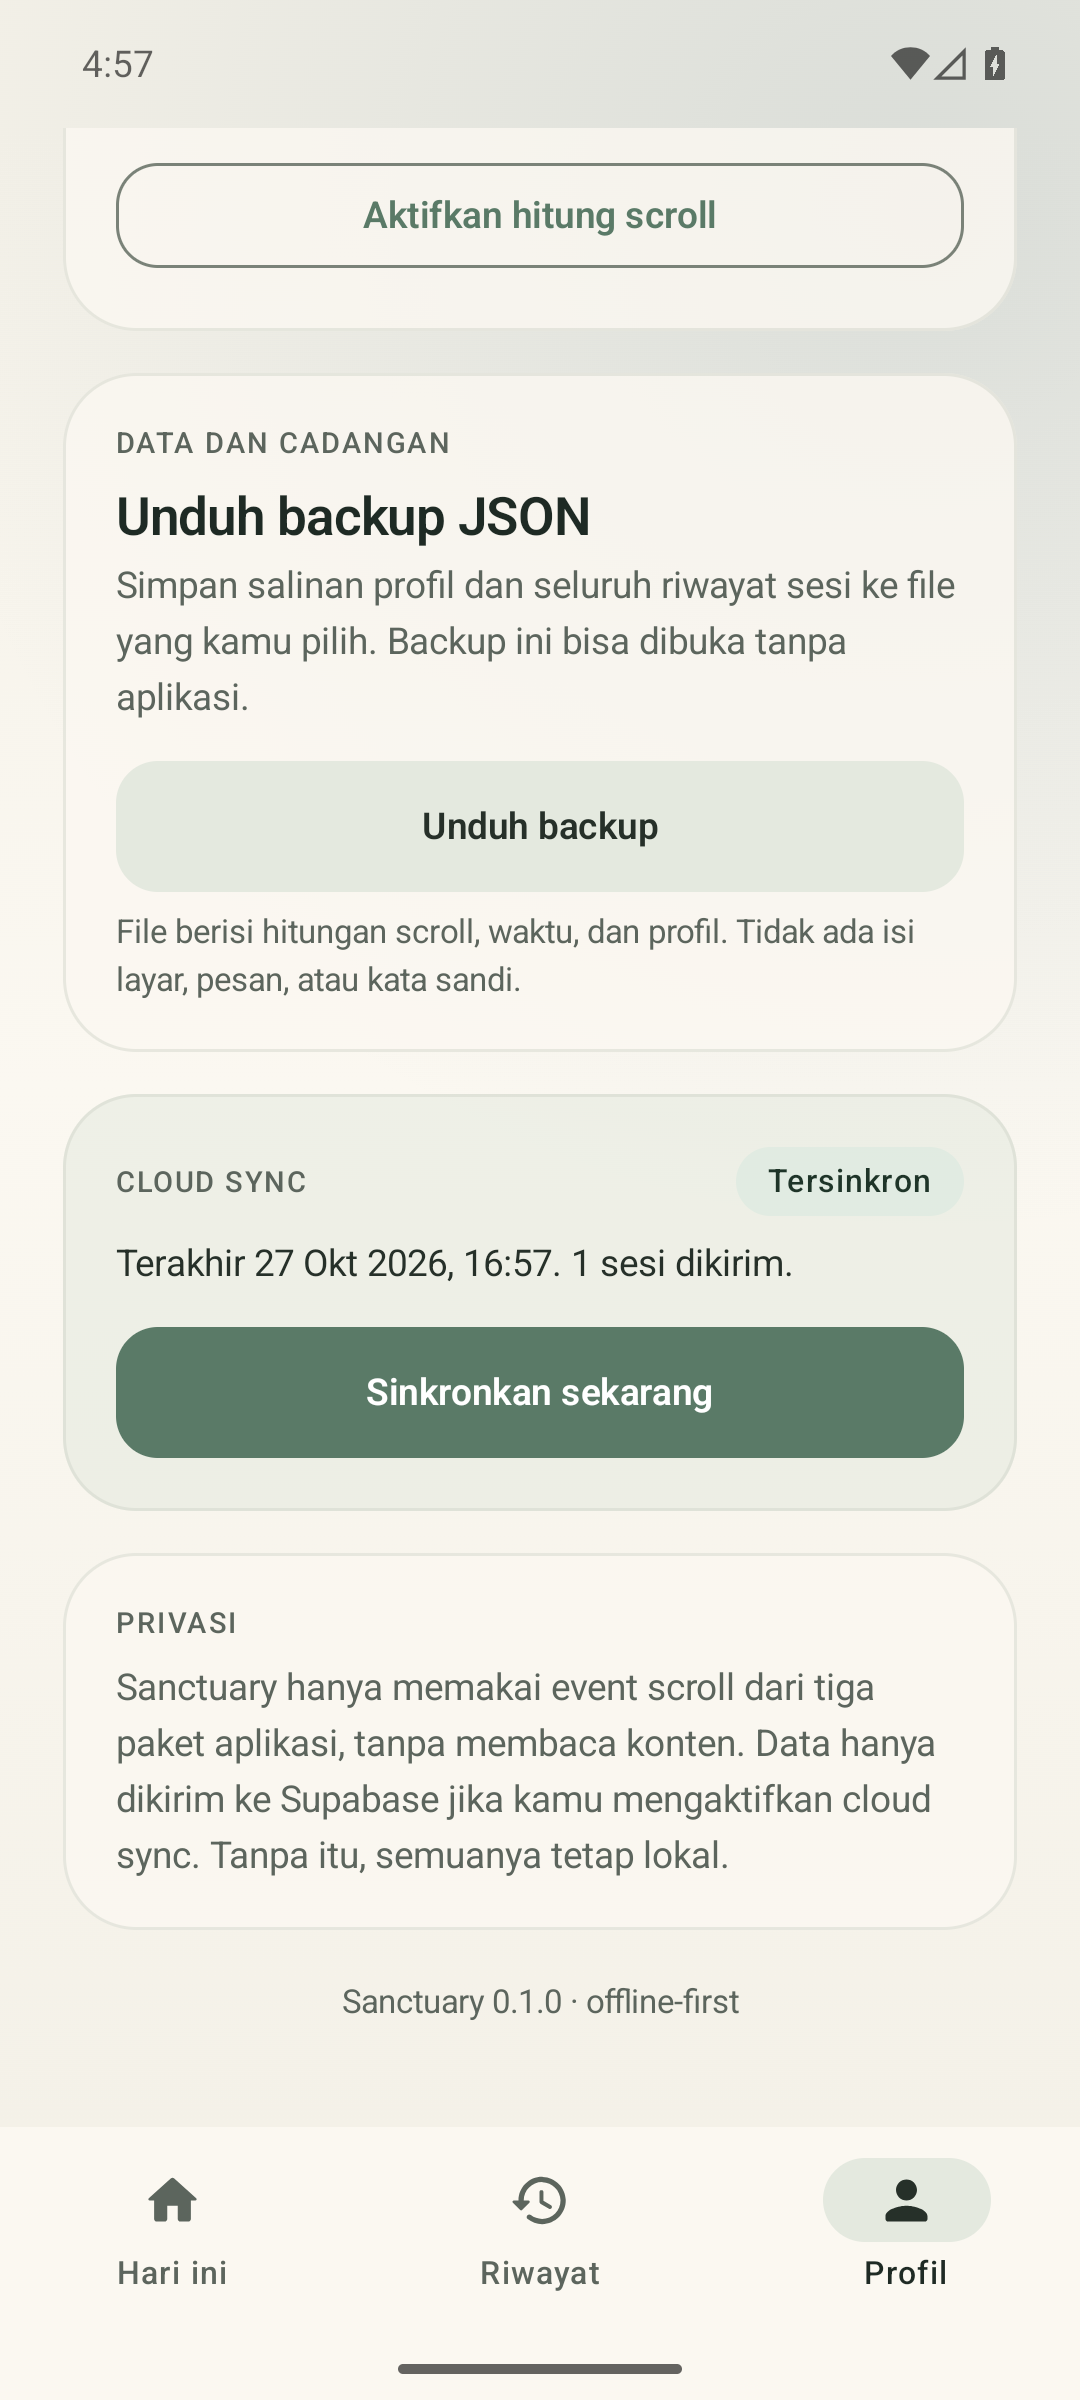
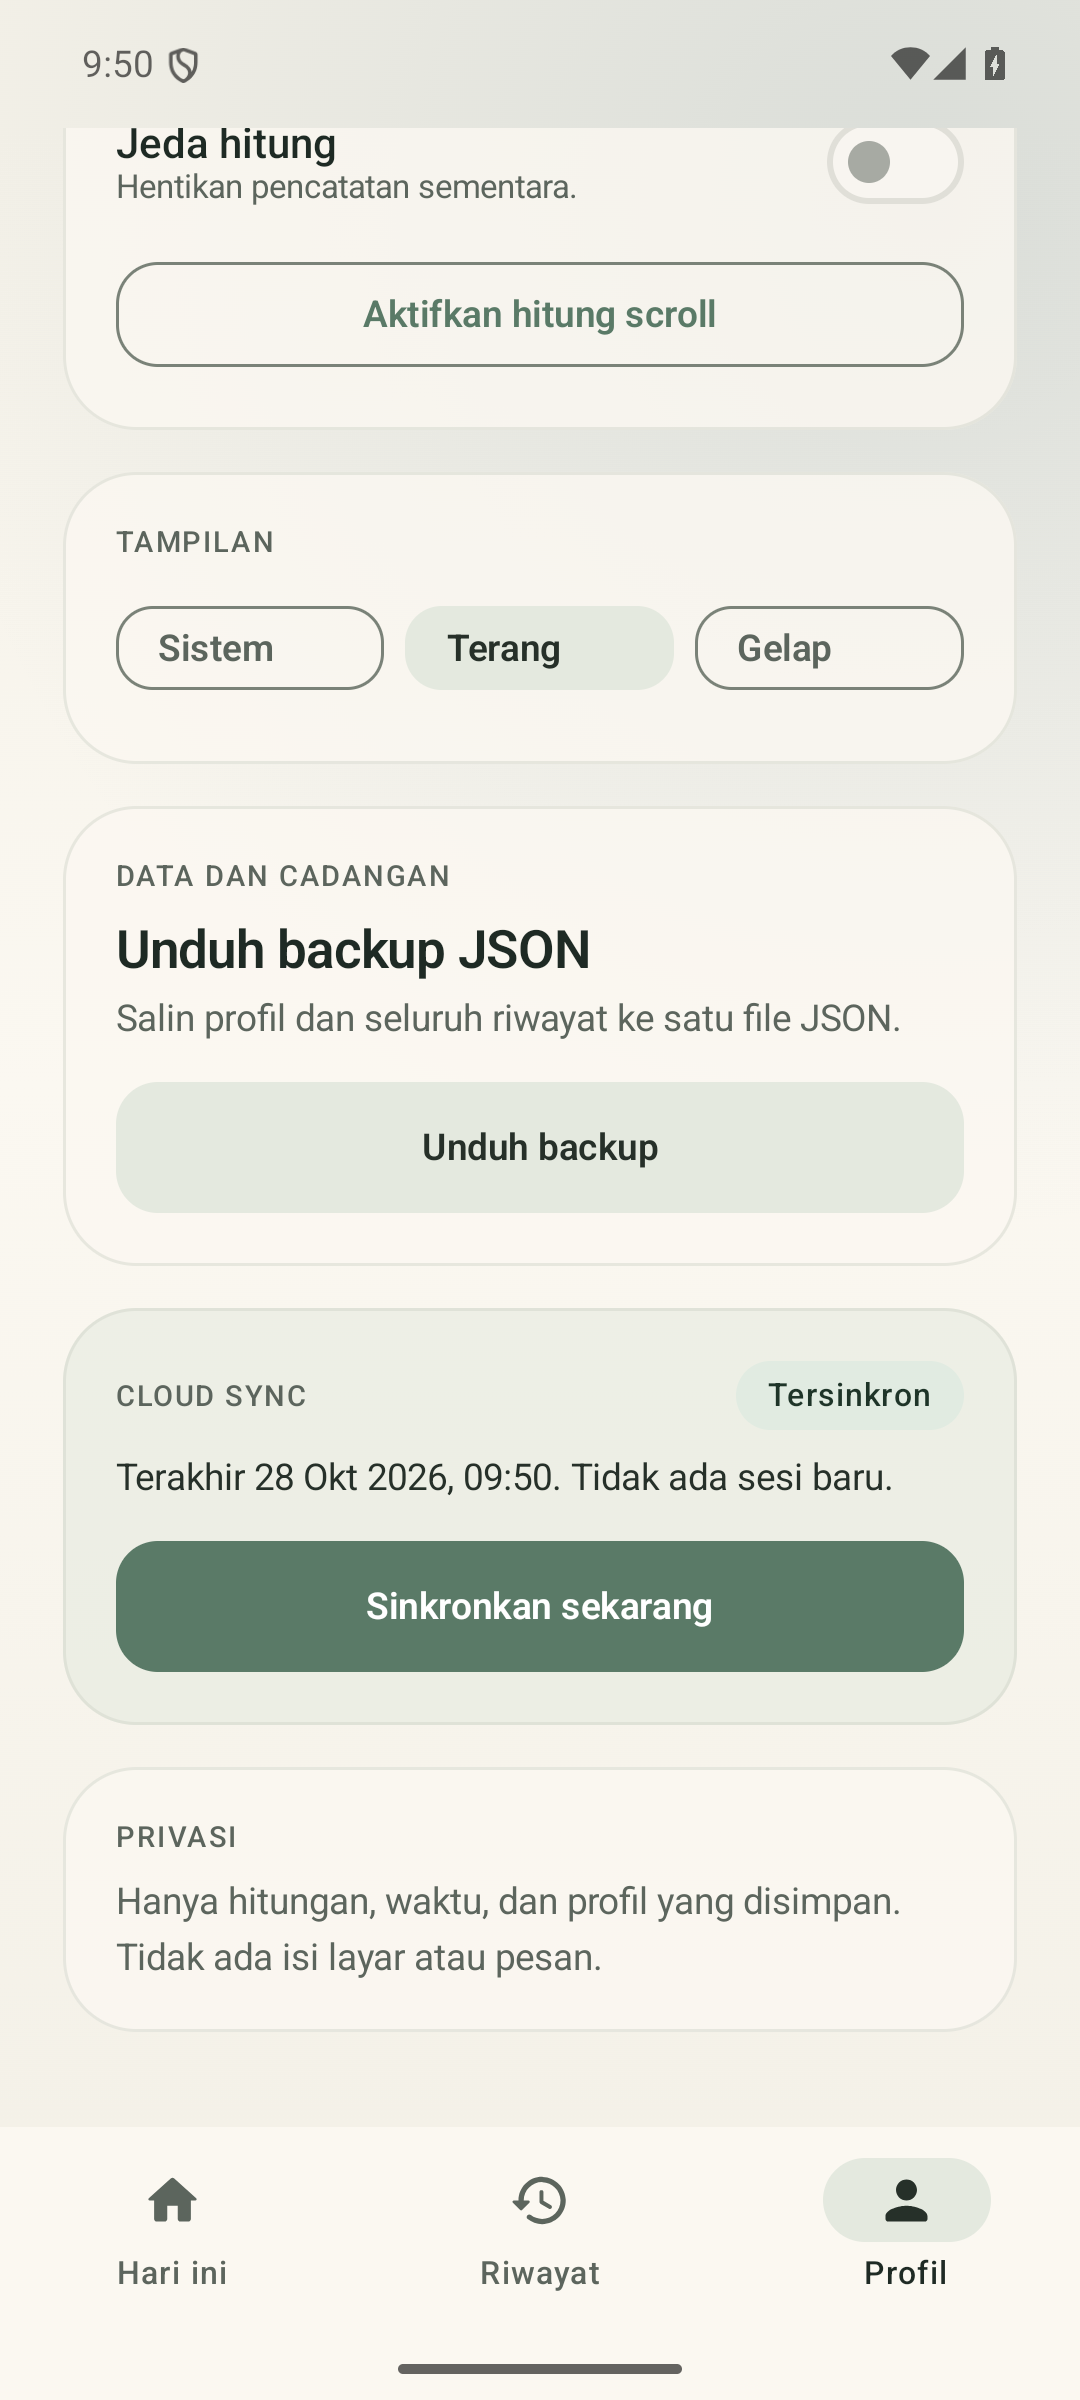
docs: translate README to English and refresh UI screenshots
Keep the same content while translating the project README, and update the cloud and platform screenshots after the copy simplification.

diff --git a/README.md b/README.md
@@ -1,61 +1,61 @@
 # Sanctuary
 
-Aplikasi Android native untuk melihat berapa banyak gestur scroll yang kamu
-lakukan di TikTok, Instagram, dan YouTube. Offline-first, tanpa email/Google,
-dengan akun anonim opsional untuk sinkronisasi dan backup JSON mandiri.
+A native Android app for seeing how many scroll gestures you make in TikTok,
+Instagram, and YouTube. Offline-first, without email or Google, with an optional
+anonymous account for sync and standalone JSON backup.
 
-> Status: **MVP 0.1.0 + cloud sync**. Build debug/release dan seluruh unit test
-> lulus. Verifikasi perangkat nyata untuk akurasi hitung TikTok/Instagram/YouTube
-> masih diperlukan.
+> Status: **MVP 0.1.0 + cloud sync**. Debug/release builds and all unit tests
+> pass. Real-device verification of TikTok/Instagram/YouTube counting accuracy
+> is still required.
 
 | Onboarding | Dashboard |
 |---|---|
-| ![Onboarding Sanctuary](docs/screenshots/onboarding.png) | ![Dashboard Sanctuary](docs/screenshots/dashboard.png) |
+| ![Sanctuary onboarding](docs/screenshots/onboarding.png) | ![Sanctuary dashboard](docs/screenshots/dashboard.png) |
 
-## Kenapa Android dulu
+## Why Android first
 
-Android memberi aplikasi akses ke event `TYPE_VIEW_SCROLLED` lewat
-AccessibilityService. iOS tidak menyediakan cara resmi untuk menghitung scroll di
-dalam aplikasi pihak ketiga; Screen Time hanya memberi durasi/pemakaian kasar.
-Karena itu Sanctuary dibangun sebagai Android native, bukan janji cross-platform
-yang setengah bekerja.
+Android gives apps access to `TYPE_VIEW_SCROLLED` events through
+AccessibilityService. iOS does not provide an official way to count scrolls
+inside third-party apps; Screen Time only gives coarse duration/usage. That is
+why Sanctuary is built as native Android, not a cross-platform promise that only
+half works.
 
-## Fitur
+## Features
 
-| Fitur | Status |
+| Feature | Status |
 |---|---|
-| Hitung scroll TikTok, Instagram, YouTube | Ada, lewat AccessibilityService |
-| Hitung perpindahan YouTube Shorts | Ada, lewat transisi judul di node YouTube |
-| Logo resmi platform | Ada, aset merek masing-masing |
-| Dashboard harian + target | Ada |
-| Riwayat 7/30 hari + detail sesi | Ada |
-| Profil, niat harian, batas scroll | Ada |
-| Jeda hitung | Ada |
-| Offline-first | Ada; network hanya untuk sync opsional |
-| Backup JSON via file picker | Ada |
-| Import JSON | Belum |
-| Supabase anonymous sync | Ada, opt-in; token terenkripsi |
-| Email/Google sign-in | Tidak dipakai |
-| iOS | Tidak didukung |
+| Count TikTok, Instagram, and YouTube scrolls | Available through AccessibilityService |
+| Count YouTube Shorts transitions | Available through title transitions in the YouTube node tree |
+| Official platform logos | Available, using each brand's assets |
+| Daily dashboard + target | Available |
+| 7/30-day history + session detail | Available |
+| Profile, daily intention, scroll limit | Available |
+| Pause counting | Available |
+| Offline-first | Available; network only for optional sync |
+| JSON backup via file picker | Available |
+| JSON import | Not yet |
+| Supabase anonymous sync | Available, opt-in; encrypted token |
+| Email/Google sign-in | Not used |
+| iOS | Not supported |
 
-![Logo platform resmi](docs/screenshots/platforms.png)
+![Official platform logos](docs/screenshots/platforms.png)
 
-## Batasan yang penting
+## Important limitations
 
-Android memberi sinyal per **package**, bukan per tab. Instagram feed dan Reels
-tetap tidak bisa dipisah. YouTube Shorts memakai pager yang tidak mengirim
-`TYPE_VIEW_SCROLLED`; Sanctuary mendeteksi pergantian Shorts dari judul dan nama
-channel yang tampil di permukaan player. Yang dihitung adalah **perpindahan
-Shorts**, bukan video yang ditonton sampai selesai. Feed YouTube biasa tetap
-dihitung lewat scroll event package.
+Android reports signals per **package**, not per tab. Instagram feed and Reels
+still cannot be separated. YouTube Shorts uses a pager that does not emit
+`TYPE_VIEW_SCROLLED`; Sanctuary detects Shorts transitions from the title and
+channel name shown on the player surface. The count represents **Shorts
+transitions**, not videos watched to completion. The regular YouTube feed is
+still counted through package scroll events.
 
-Satu gestur yang selesai dihitung satu. Event fling dari framework digabung
-dengan jeda tenang 350 ms per aplikasi: event selama burst tidak menambah angka,
-tetapi gestur baru setelah jeda akan dihitung. Sesi baru dimulai setelah 30 menit
-tanpa scroll. Angka bisa lebih rendah dari persepsi pengguna bila aplikasi target
-tidak mengirim event yang bisa dibaca.
+One completed gesture counts as one. Framework fling events are merged with a
+350 ms quiet period per app: events during a burst do not add to the number, but
+a new gesture after the gap is counted. A new session starts after 30 minutes
+without scrolling. The number can be lower than the user's perception when a
+target app does not emit a readable event.
 
-## Arsitektur
+## Architecture
 
 ```
 app
@@ -66,25 +66,25 @@ app
 ├── core:designsystem
 ├── core:tracking        AccessibilityService + gate
 ├── core:sync            anonymous auth, encrypted token, push sync
-├── core:data            repository, DataStore, backup JSON
+├── core:data            repository, DataStore, JSON backup
 ├── core:database        Room
-└── core:model           model, statistik, kontrak backup
+└── core:model           model, statistics, backup contract
 ```
 
 - UI: Jetpack Compose + Material 3.
-- State: ViewModel + StateFlow + Flow dari Room/DataStore.
-- DI: composition root manual (`AppContainer` / `SanctuaryData`), tanpa framework.
-- Offline: Room adalah source of truth. Sync hanya berjalan jika diaktifkan;
-  kegagalan jaringan tidak menghapus data.
-- Backup: `kotlinx.serialization` ke `BackupDocument` versi 1.
-- Cloud: satu anonymous user per perangkat, access/refresh token dienkripsi
-  Android Keystore, push idempoten lewat PostgREST.
+- State: ViewModel + StateFlow + Flow from Room/DataStore.
+- DI: manual composition root (`AppContainer` / `SanctuaryData`), without a framework.
+- Offline: Room is the source of truth. Sync only runs when enabled; network
+  failure does not delete data.
+- Backup: `kotlinx.serialization` to `BackupDocument` version 1.
+- Cloud: one anonymous user per device, access/refresh token encrypted with
+  Android Keystore, idempotent push through PostgREST.
 
-Detail: [`docs/ARCHITECTURE.md`](docs/ARCHITECTURE.md).
+Details: [`docs/ARCHITECTURE.md`](docs/ARCHITECTURE.md).
 
 ## Build
 
-Prasyarat: JDK 21, Android SDK 36, Gradle wrapper 8.13.
+Prerequisites: JDK 21, Android SDK 36, Gradle wrapper 8.13.
 
 ```powershell
 $env:JAVA_HOME = "C:\Program Files\Android\openjdk\jdk-21.0.8"
@@ -94,39 +94,40 @@ $env:ANDROID_HOME = "$env:LOCALAPPDATA\Android\Sdk"
 .\gradlew.bat test
 ```
 
-`test` mencakup unit test JVM (`core:model`) dan unit test Android
-(`core:data`, `core:tracking`, `core:sync`). Varian debug dan release menjalankan
-test yang sama.
+`test` covers JVM unit tests (`core:model`) and Android unit tests
+(`core:data`, `core:tracking`, `core:sync`). Debug and release variants run the
+same tests.
 
-Salin [local.properties.example](local.properties.example) menjadi `local.properties`
-lalu sesuaikan `sdk.dir`. Untuk cloud sync, isi file yang sama (tidak ikut di-commit):
+Copy [local.properties.example](local.properties.example) to `local.properties`
+and adjust `sdk.dir`. For cloud sync, fill in the same file (not committed):
 
 ```properties
 SUPABASE_URL=https://xxxx.supabase.co
 SUPABASE_ANON_KEY=sb_publishable_...
 ```
 
-Gunakan publishable/anon key. Jangan pernah memakai `service_role` di APK.
-Aktifkan **Anonymous Sign-Ins** di Supabase Auth dan jalankan migrasi.
+Use a publishable/anon key. Never use `service_role` in the APK. Enable
+**Anonymous Sign-Ins** in Supabase Auth and run the migration.
 
 APK: `app/build/outputs/apk/debug/app-debug.apk`.
 
-Instal:
+Install:
 
 ```powershell
 & "$env:ANDROID_HOME\platform-tools\adb.exe" install -r app\build\outputs\apk\debug\app-debug.apk
 ```
 
-Setelah onboarding, aktifkan **Pelacakan Sanctuary** di
-`Settings > Accessibility`. Layanan hanya dikonfigurasi untuk empat package:
-TikTok (`com.zhiliaoapp.musically`, `com.ss.android.ugc.trill`), Instagram,
-dan YouTube. `canRetrieveWindowContent=true` diperlukan untuk membaca judul
-Shorts di YouTube; isi layar tidak disimpan, tidak dilog, dan tidak dikirim.
+After onboarding, enable **Pelacakan Sanctuary** in
+`Settings > Accessibility`. The service is configured for only four packages:
+TikTok (`com.zhiliaoapp.musically`, `com.ss.android.ugc.trill`), Instagram, and
+YouTube. `canRetrieveWindowContent=true` is required to read YouTube Shorts
+titles; screen content is not stored, logged, or sent.
 
-## Backup JSON
+## JSON backup
 
-File dibuat lewat Storage Access Framework, jadi tidak perlu izin storage. Backup
-ini tidak melewati Supabase; kamu memilih sendiri lokasi filenya.
+The file is created through the Storage Access Framework, so no storage
+permission is needed. This backup does not go through Supabase; you choose the
+file location yourself.
 
 ```json
 {
@@ -154,54 +155,55 @@ ini tidak melewati Supabase; kamu memilih sendiri lokasi filenya.
 }
 ```
 
-Backup tidak berisi isi layar, pesan, akun, atau token.
+The backup does not contain screen content, messages, accounts, or tokens.
 
 ## Supabase
 
-Satu akun anonim per perangkat, tanpa email/Google. Aktifkan sekali dari kartu
-**Cloud sync** di Profil; sesi disimpan terenkripsi dan dipakai ulang otomatis.
-Profil dan sesi yang menunggu dikirim lewat PostgREST. Kegagalan jaringan hanya
-menunda sync.
+One anonymous account per device, without email or Google. Enable it once from
+the **Cloud sync** card in Profile; the session is stored encrypted and reused
+automatically. Pending profiles and sessions are pushed through PostgREST.
+Network failure only delays sync.
 
 ![Cloud sync](docs/screenshots/cloud-sync.png)
 
-Batas penting: anonymous user tidak dapat dipulihkan setelah data aplikasi
-dihapus atau di perangkat lain. Backup JSON adalah salinan mandiri. Skema dan RLS
-ada di [`supabase/migrations/0001_init.sql`](supabase/migrations/0001_init.sql);
-langkah aktivasi ada di [`supabase/README.md`](supabase/README.md).
+Important limit: an anonymous user cannot be recovered after app data is
+deleted or on another device. JSON backup is the standalone copy. Schema and RLS
+are in [`supabase/migrations/0001_init.sql`](supabase/migrations/0001_init.sql);
+activation steps are in [`supabase/README.md`](supabase/README.md).
 
-## Verifikasi
+## Verification
 
-| Cek | Hasil |
+| Check | Result |
 |---|---|
-| `:app:assembleDebug` | Sukses, APK debug 19.4 MB |
-| `:app:assembleRelease` (R8) | Sukses, APK unsigned 1.6 MB |
-| `:app:lintDebug` | 0 error, 20 warning (versi dependency dan ikon monokrom) |
-| Unit test | 33 unik, 58 eksekusi, 0 gagal |
-| Emulator API 36 | Onboarding, dashboard, riwayat, profil, jeda, backup JSON |
-| Tracking pipeline | Event `TYPE_VIEW_SCROLLED` nyata tercatat, sesi dan UI terupdate |
-| Shorts detector | Unit test signature lulus; belum diuji di YouTube asli |
-| Backup JSON | Profil + sesi tersimpan dan terbaca |
-| Supabase auth | Anonymous sign-in nyata berhasil |
-| Supabase sync | Profil dan 1 sesi berhasil dikirim, status "Tersinkron" |
-| RLS | Dua anonymous user terisolasi: user B melihat `[]` |
-| TikTok/IG/YouTube asli | Belum diuji dengan akun/feed nyata |
+| `:app:assembleDebug` | Succeeded, 19.4 MB debug APK |
+| `:app:assembleRelease` (R8) | Succeeded, 1.6 MB unsigned APK |
+| `:app:lintDebug` | 0 errors, 20 warnings (dependency versions and monochrome icon) |
+| Unit test | 33 unique, 58 runs, 0 failures |
+| Emulator API 36 | Onboarding, dashboard, history, profile, pause, JSON backup |
+| Tracking pipeline | Real `TYPE_VIEW_SCROLLED` event recorded, session and UI updated |
+| Shorts detector | Signature unit tests pass; not yet verified on real YouTube |
+| JSON backup | Profile + sessions saved and readable |
+| Supabase auth | Real anonymous sign-in succeeded |
+| Supabase sync | Profile and 1 session sent successfully, status "Tersinkron" |
+| RLS | Two anonymous users isolated: user B sees `[]` |
+| Real TikTok/IG/YouTube | Not yet tested with real accounts/feeds |
 
-Detail bukti dan batasannya ada di [`docs/ARCHITECTURE.md`](docs/ARCHITECTURE.md).
-Klaim akurasi hitung harus diuji di perangkat dengan ketiga aplikasi target
-sebelum dipakai sehari-hari.
+Evidence and limitations are in [`docs/ARCHITECTURE.md`](docs/ARCHITECTURE.md).
+Counting accuracy must be tested on a device with all three target apps before
+daily use.
 
-## Privasi dan Play Store
+## Privacy and Play Store
 
-Penggunaan AccessibilityService untuk memantau aplikasi lain memerlukan
-disclosure menonjol dan deklarasi kebijakan Play. Untuk penggunaan pribadi,
-sideload aman. Jangan mengubah konfigurasi layanan untuk membaca konten tanpa
-memperbarui disclosure dan kebijakan privasi.
+Using AccessibilityService to monitor other apps requires prominent disclosure
+and a Play policy declaration. For personal use, sideloading is safe. Do not
+change the service configuration to read content without updating the disclosure
+and privacy policy.
 
-Cloud sync mengirim profil dan hitungan scroll ke project Supabase milikmu.
-Tidak ada isi layar, pesan, atau token pihak ketiga. Untuk Shorts, judul dan
-nama channel dibaca di memori perangkat saja, tidak masuk database.
+Cloud sync sends the profile and scroll counts to your Supabase project. There
+is no screen content, messages, or third-party tokens. For Shorts, titles and
+channel names are read in device memory only and are not written to the
+database.
 
-Logo TikTok, Instagram, dan YouTube adalah merek milik pemegang hak masing-masing.
-Sumber dan catatan atribusi ada di [docs/ASSETS.md](docs/ASSETS.md). Jangan pernah
-menaruh `service_role` key di aplikasi; RLS adalah batas keamanan utama.
+TikTok, Instagram, and YouTube logos are trademarks of their respective owners.
+Sources and attribution notes are in [docs/ASSETS.md](docs/ASSETS.md). Never put
+a `service_role` key in the app; RLS is the primary security boundary.
